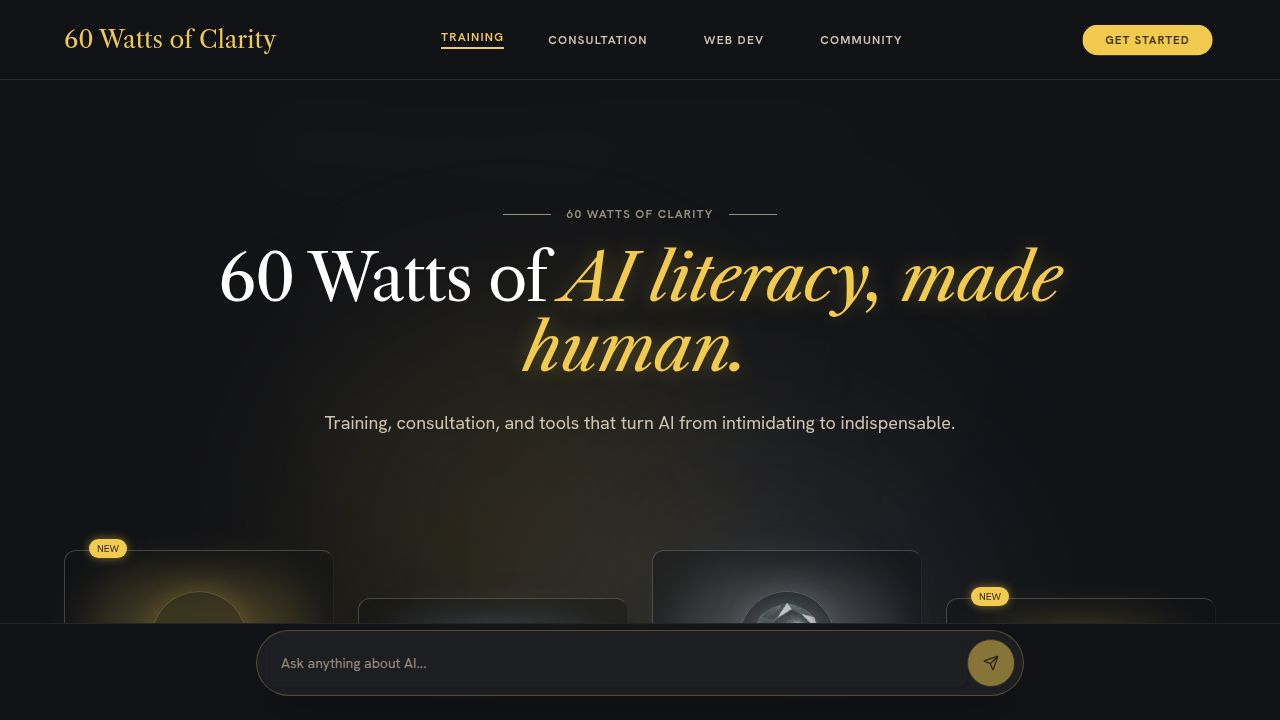
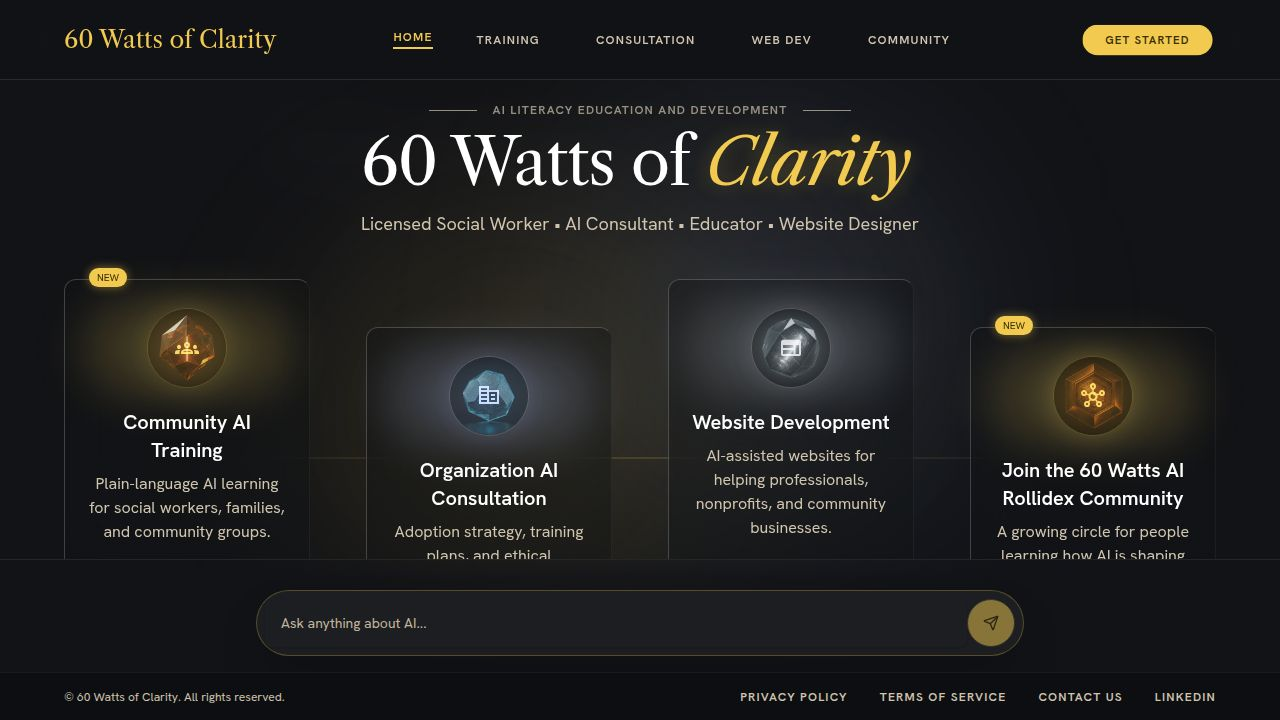
Task #9: Redesign /services (Consultation) — portrait, tiles, office hours
Replaced the generic Services page with a purpose-built Consultation
page that follows the same tile design language as Home and Training.

Changes:
- artifacts/lemonade-chat/src/pages/Services.tsx: rebuilt from scratch.
  - Header: "Advisory & Strategy" eyebrow + "AI Consultation" headline.
  - Portrait row: attached consultant photo (@user/Screenshot_
    2026-04-08_115516_1780005621317.png) in a rounded frame with soft
    primary glow, sized 128px mobile / 160px desktop, alongside a
    short intro paragraph.
  - Three tiles using the shared TileCardBody (same glass-card, icon
    block, title text-xl, body text-base, hover lift):
      1. AI Literacy & Education — amber glow, groups icon
      2. AI Tool Implementation  — tertiary/blue glow, web icon
      3. Ethics & Safety          — violet glow, hub icon
    Each tile has a "Discuss" CTA that opens chat (hiddenPrompt=true)
    with a tailored consultation prompt.
  - Office Hours add-on banner: lower-emphasis border card (not a
    fourth tile) with clock icon, "Office Hours · Add-on" label,
    explanation copy, and "Ask about it" CTA that opens chat with an
    office-hours inquiry prompt.
  - Layout matches Training: h-full + overflow-hidden, compact
    spacing (pt-4 / pb-4, mb-3/4), ambient blur orbs in primary +
    violet for visual consistency.

Constraints met:
- Reuses Home tile icons (groups, web, hub) — differentiation by
  color/glow only.
- No scroll at 1440x900 desktop — all sections (nav, header,
[…]

diff --git a/artifacts/lemonade-chat/src/pages/Services.tsx b/artifacts/lemonade-chat/src/pages/Services.tsx
@@ -1,59 +1,154 @@
 import React from 'react';
-import { useListElements, getListElementsQueryKey } from '@workspace/api-client-react';
-import { useChat } from '../context/ChatContext';
 import { motion } from 'framer-motion';
+import { useChat } from '../context/ChatContext';
+import { TileCardBody, TileVisual } from '../components/TileCardBase';
+import consultantPortrait from '@assets/Screenshot_2026-04-08_115516_1780005621317.png';
+
+type ConsultTile = {
+  id: string;
+  title: string;
+  description: string;
+  prompt: string;
+  visual: TileVisual;
+};
+
+const TILES: ConsultTile[] = [
+  {
+    id: 'literacy',
+    title: 'AI Literacy & Education',
+    description:
+      'Ongoing AI literacy and education for non-technical teams, with continued support as they grow.',
+    prompt:
+      'Tell me about AI literacy & education consultations for our non-technical team.',
+    visual: {
+      glowClass: 'bg-primary/20',
+      glowHoverClass: 'group-hover:bg-primary/30',
+      imgBorderClass: 'border-primary/30',
+      imgShadowClass: 'shadow-[0_0_30px_rgba(242,202,80,0.3)]',
+      iconColorClass: 'text-primary',
+      icon: 'groups',
+    },
+  },
+  {
+    id: 'implementation',
+    title: 'AI Tool Implementation',
+    description:
+      'Help selecting and rolling out the right AI tool, plus practical training on how to use it across teams.',
+    prompt:
+      "I'd like to discuss implementing an AI tool across our teams.",
+    visual: {
+      glowClass: 'bg-tertiary/20',
+      glowHoverClass: 'group-hover:bg-tertiary/30',
+      imgBorderClass: 'border-tertiary/30',
+      imgShadowClass: 'shadow-[0_0_30px_rgba(151,176,255,0.3)]',
+      iconColorClass: 'text-tertiary',
+      icon: 'web',
+    },
+  },
+  {
+    id: 'ethics',
+    title: 'Ethics & Safety',
+    description:
+      'Guidance on responsible, safe, and ethical AI use — policies, guardrails, and team agreements.',
+    prompt:
+      'I want to talk through ethics and safety guidance for our AI use.',
+    visual: {
+      glowClass: 'bg-[#bfa0ff]/20',
+      glowHoverClass: 'group-hover:bg-[#bfa0ff]/30',
+      imgBorderClass: 'border-[#bfa0ff]/30',
+      imgShadowClass: 'shadow-[0_0_30px_rgba(191,160,255,0.3)]',
+      iconColorClass: 'text-[#d7c3ff]',
+      icon: 'hub',
+    },
+  },
+];
+
+const OFFICE_HOURS_PROMPT =
+  'Tell me about weekly office hours as an add-on for ongoing consultation and adoption support.';
 
 export function Services() {
-  const { data: elements, isLoading } = useListElements({ query: { queryKey: getListElementsQueryKey() } });
   const { sendMessage } = useChat();
 
   return (
-    <main className="flex flex-col items-center pt-16 pb-20 relative px-margin-mobile md:px-margin-desktop">
-      <div className="z-10 text-center max-w-3xl mx-auto mb-14">
-        <div className="flex items-center justify-center gap-4 mb-6 opacity-70">
+    <main className="h-full flex flex-col items-center pt-4 pb-4 relative px-margin-mobile md:px-margin-desktop overflow-hidden">
+      <div className="absolute inset-0 z-0 pointer-events-none bg-pattern opacity-50" />
+      <div className="absolute top-1/4 left-1/4 w-96 h-96 bg-primary/10 rounded-full blur-[100px] z-0 pointer-events-none" />
+      <div className="absolute bottom-1/4 right-1/4 w-96 h-96 bg-[#bfa0ff]/10 rounded-full blur-[100px] z-0 pointer-events-none" />
+
+      <div className="z-10 text-center max-w-3xl mx-auto mb-3">
+        <div className="flex items-center justify-center gap-4 mb-2 opacity-70">
           <div className="h-px w-12 bg-on-surface-variant" />
           <span className="font-label-sm text-label-sm uppercase tracking-[0.2em] text-on-surface-variant">
-            What We Offer
+            Advisory &amp; Strategy
           </span>
           <div className="h-px w-12 bg-on-surface-variant" />
         </div>
-        <h2 className="font-headline-lg text-headline-lg text-on-surface mb-4">Our Services</h2>
-        <p className="font-body-lg text-body-lg text-on-surface-variant">
-          Click any service to start an AI-guided conversation about how we can help.
+        <h2 className="font-headline-lg text-headline-lg text-on-surface mb-1">AI Consultation</h2>
+      </div>
+
+      <div className="z-10 w-full max-w-3xl mx-auto mb-4 flex flex-col md:flex-row items-center gap-5 md:gap-6">
+        <div className="relative flex-shrink-0">
+          <div className="absolute inset-0 bg-primary/20 rounded-full blur-2xl" />
+          <img
+            src={consultantPortrait}
+            alt="Portrait of the lead AI consultant"
+            className="relative w-32 h-32 md:w-40 md:h-40 object-cover rounded-full border border-primary/30 shadow-[0_0_30px_rgba(242,202,80,0.25)]"
+          />
+        </div>
+        <p className="font-body-md text-base text-on-surface-variant text-center md:text-left max-w-md">
+          We partner with leaders and teams to make AI useful, safe, and human — from
+          first steps to org-wide rollout, meeting you where you are and staying with
+          you as things evolve.
         </p>
       </div>
 
       <div className="z-10 w-full max-w-container-max mx-auto">
-        <div className="grid grid-cols-1 md:grid-cols-2 gap-gutter">
-          {isLoading
-            ? [0, 1, 2, 3].map(i => <div key={i} className="glass-card rounded-xl p-6 h-40 animate-pulse" />)
-            : (elements ?? []).map(el => (
-                <motion.div
-                  key={el.id}
-                  whileHover={{ y: -3 }}
-                  transition={{ duration: 0.25 }}
-                  onClick={() => sendMessage(el.promptText, true)}
-                  className="glass-card rounded-xl p-6 cursor-pointer group"
-                >
-                  <h3 className="font-body-lg text-body-lg text-white font-semibold mb-2 group-hover:text-primary transition-colors">
-                    {el.name}
-                  </h3>
-                  <p className="font-body-md text-sm text-on-surface-variant">{el.description}</p>
-                  {el.subElements && el.subElements.length > 0 && (
-                    <div className="mt-4 space-y-2">
-                      {el.subElements.map(sub => (
-                        <div
-                          key={sub.id}
-                          onClick={e => { e.stopPropagation(); sendMessage(sub.promptText, true); }}
-                          className="pl-4 border-l border-primary/20 text-sm text-on-surface-variant hover:text-primary hover:border-primary/60 transition-colors cursor-pointer py-1"
-                        >
-                          {sub.name}
-                        </div>
-                      ))}
-                    </div>
-                  )}
-                </motion.div>
-              ))}
+        <div className="grid grid-cols-1 md:grid-cols-3 gap-gutter">
+          {TILES.map((tile) => (
+            <motion.div
+              key={tile.id}
+              whileHover={{ y: -4 }}
+              transition={{ duration: 0.25 }}
+              className="glass-card rounded-xl p-5 relative group transition-transform duration-300 z-10 flex flex-col h-full text-center items-center"
+            >
+              <TileCardBody
+                visual={tile.visual}
+                title={tile.title}
+                description={tile.description}
+                footer={
+                  <button
+                    type="button"
+                    onClick={() => sendMessage(tile.prompt, true)}
+                    className="mt-4 inline-flex items-center justify-center px-6 py-2 rounded-full bg-primary text-on-primary font-body-md text-sm font-semibold hover:bg-primary-fixed-dim transition-colors shadow-[0_0_15px_rgba(242,202,80,0.35)]"
+                  >
+                    Discuss
+                  </button>
+                }
+              />
+            </motion.div>
+          ))}
+        </div>
+      </div>
+
+      <div className="z-10 w-full max-w-container-max mx-auto mt-4">
+        <div className="rounded-xl border border-primary/30 bg-surface-container-low/60 px-5 py-3 flex flex-col md:flex-row items-center gap-3 md:gap-5">
+          <div className="flex items-center gap-3 flex-shrink-0">
+            <span className="material-symbols-outlined text-primary text-2xl">schedule</span>
+            <span className="font-label-sm text-label-sm uppercase tracking-[0.2em] text-primary">
+              Office Hours · Add-on
+            </span>
+          </div>
+          <p className="font-body-md text-sm text-on-surface-variant text-center md:text-left flex-1">
+            Weekly office hours are available with any consultation engagement — drop
+            in for ongoing strategy, adoption support, and team questions as they come up.
+          </p>
+          <button
+            type="button"
+            onClick={() => sendMessage(OFFICE_HOURS_PROMPT, true)}
+            className="flex-shrink-0 inline-flex items-center justify-center px-5 py-2 rounded-full border border-primary/60 text-primary hover:bg-primary/10 transition-colors font-body-md text-sm font-semibold"
+          >
+            Ask about it →
+          </button>
         </div>
       </div>
     </main>